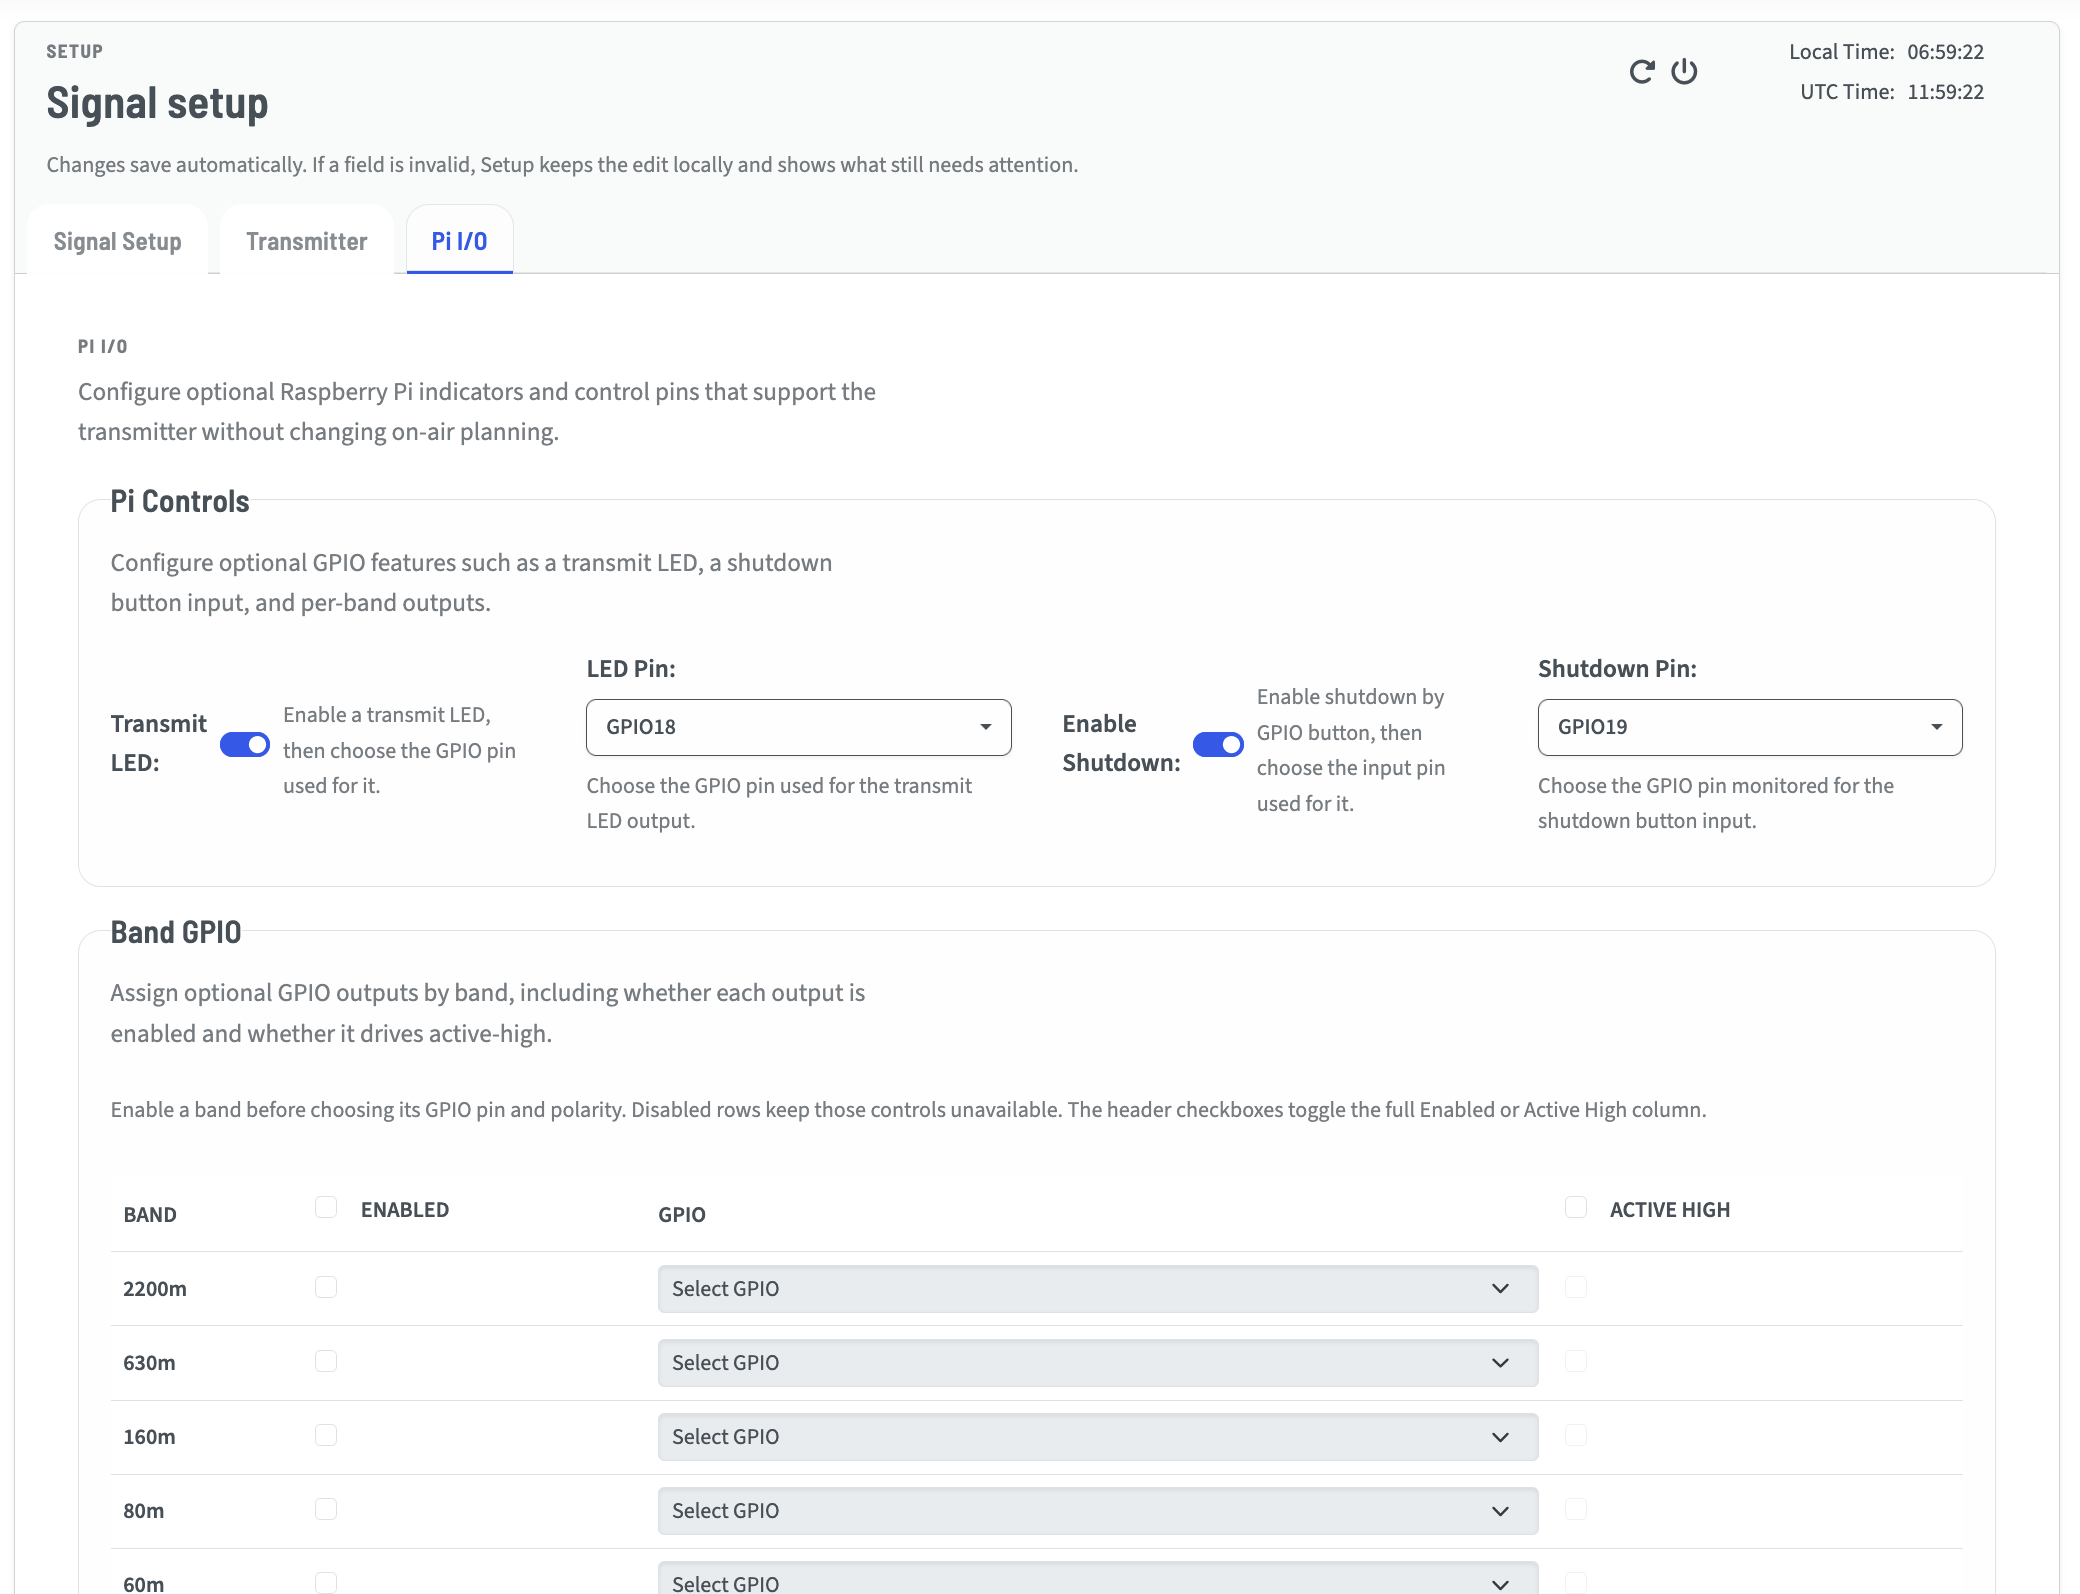
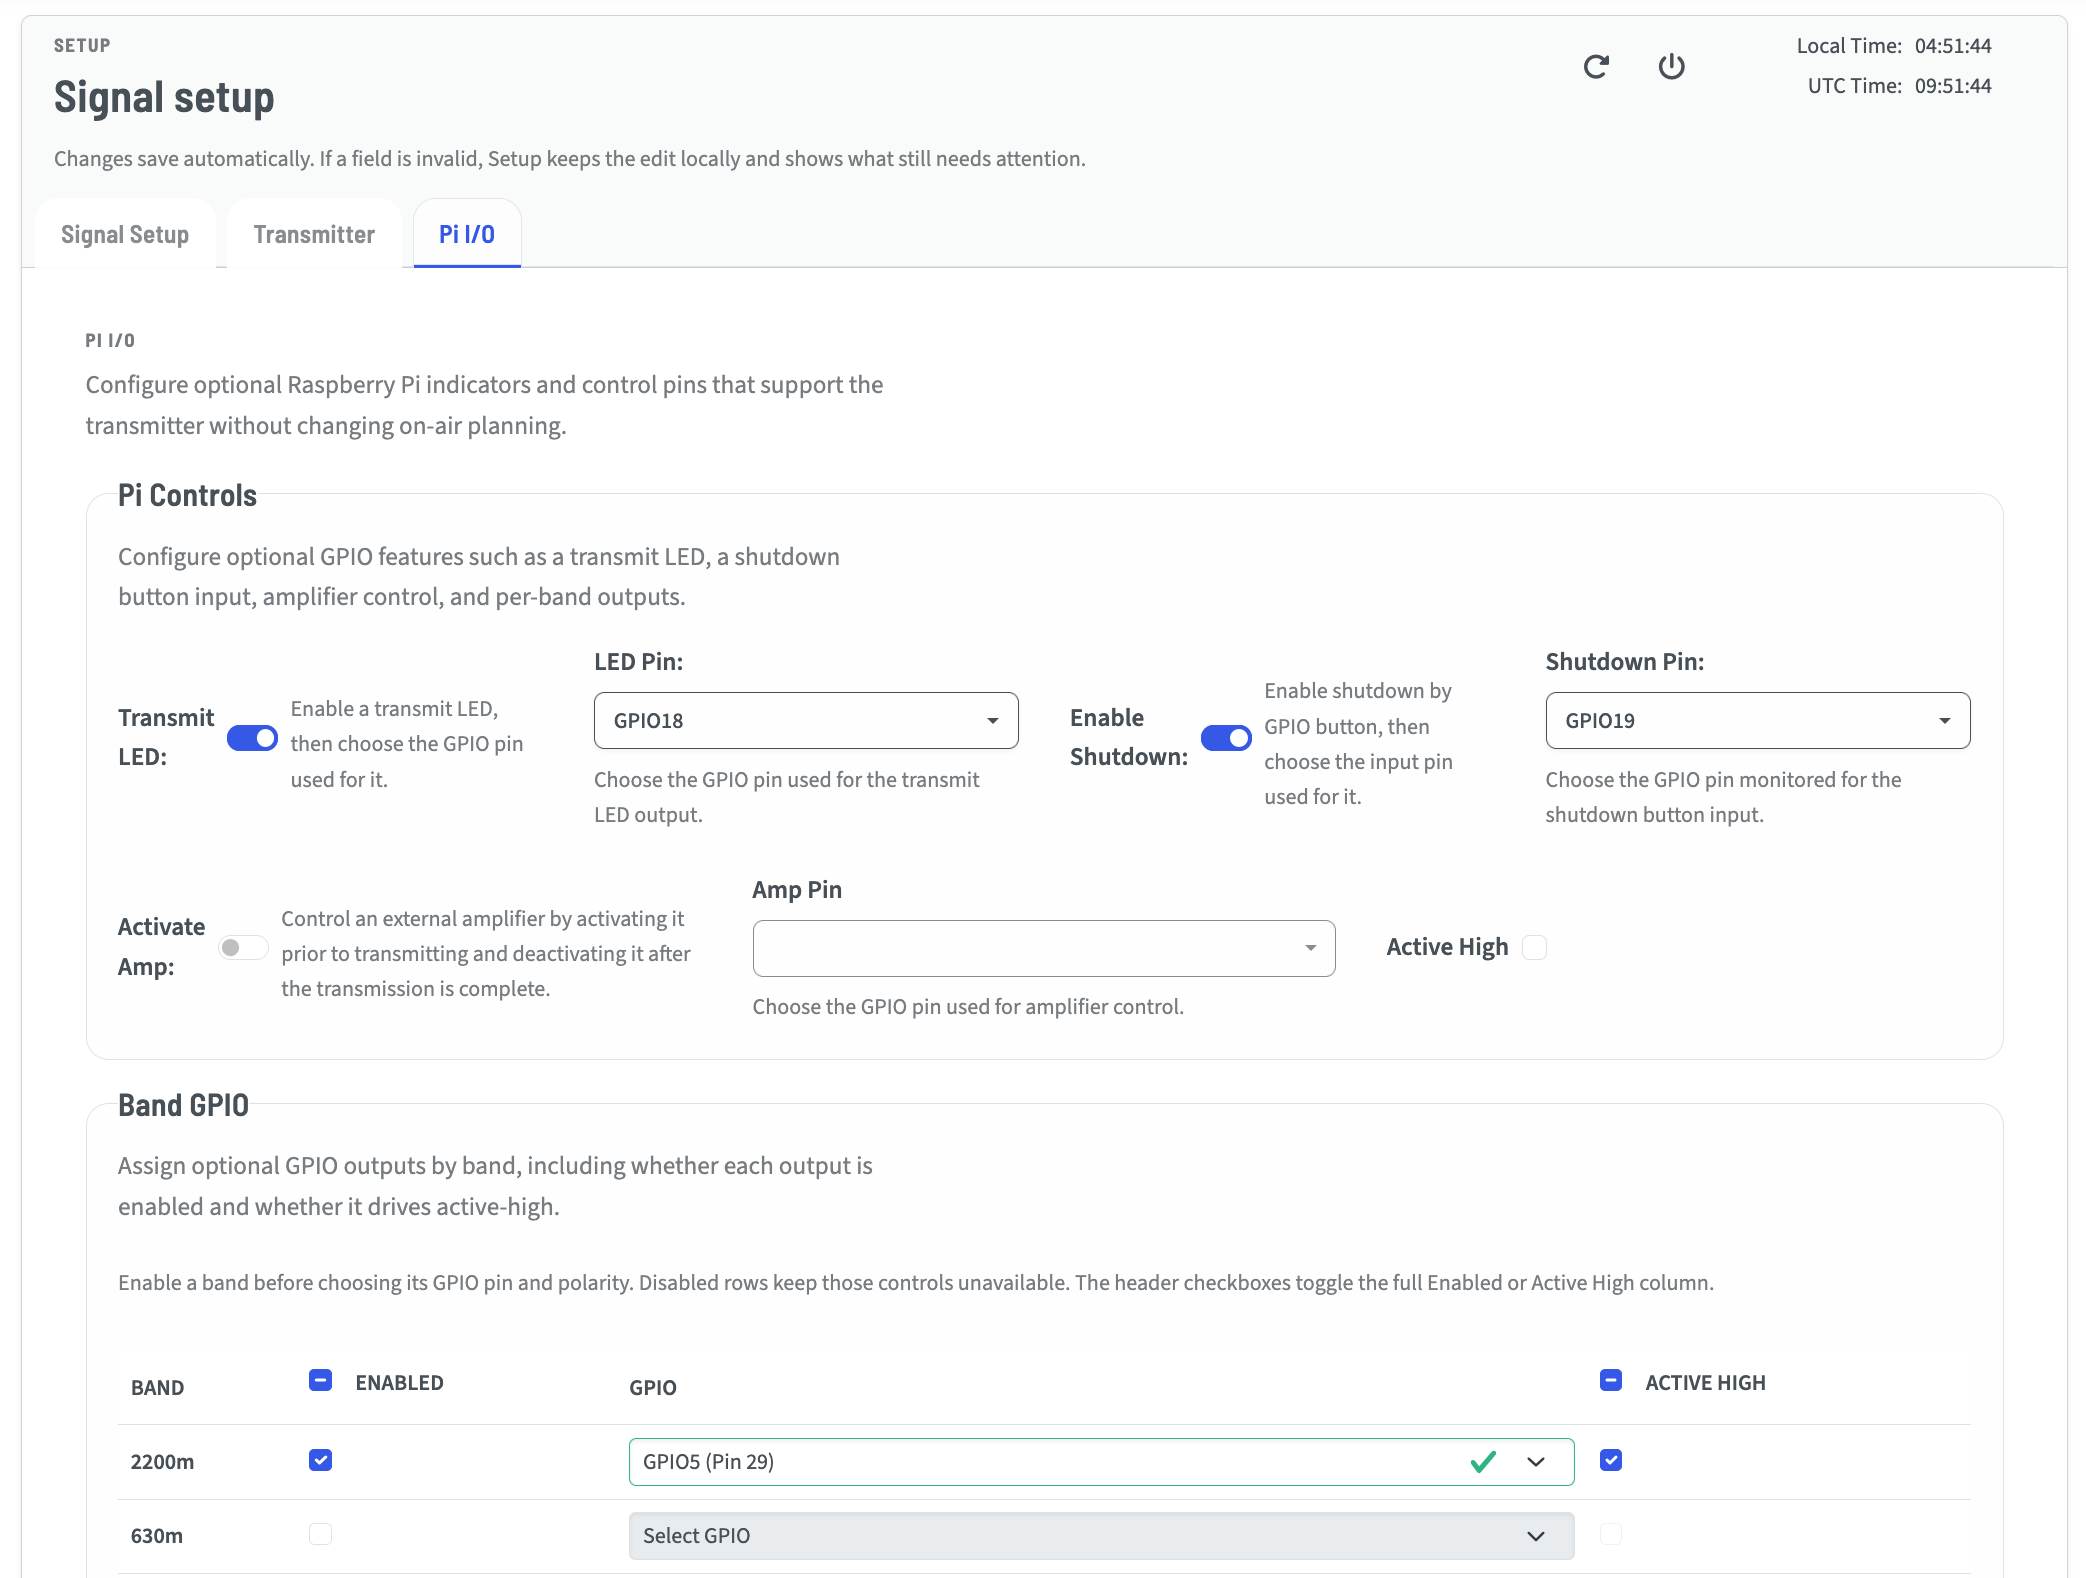
Update with Amp control

diff --git a/docs/_static/css/custom.css b/docs/_static/css/custom.css
@@ -244,6 +244,13 @@
     box-shadow: 0 1px 2px rgba(20, 27, 35, 0.04);
 }
 
+.rst-content div.admonition,
+.rst-content div.warning {
+    max-width: 68ch;
+    box-sizing: border-box;
+    overflow: hidden;
+}
+
 .rst-content .note,
 .rst-content .tip {
     border-color: rgba(103, 133, 139, 0.51);
@@ -270,6 +277,16 @@
     font-weight: var(--wsprrypi-docs-weight-bold);
     letter-spacing: var(--wsprrypi-docs-tracking-kicker);
     text-transform: uppercase;
+}
+
+.rst-content div.admonition > .admonition-title,
+.rst-content div.warning > .admonition-title {
+    display: block;
+    width: auto;
+    max-width: none;
+    box-sizing: border-box;
+    border-top-left-radius: inherit;
+    border-top-right-radius: inherit;
 }
 
 .rst-content .admonition p:last-child,

diff --git a/docs/User_Interface/Setup/Pi_IO/index.md b/docs/User_Interface/Setup/Pi_IO/index.md
@@ -6,13 +6,13 @@ The Pi I/O page contains settings for Raspberry Pi pin usage, including status i
 
 ## Transmit LED & LED Pin
 
-Enabling the Transmit LED will allow you to monitor the transmission state without the Web UI.  
+Enabling the Transmit LED lets you monitor the transmission state without the Web UI.
 
 ![Transmit LED](TX_LED.png)
 
 You may use the dropdown to configure it to a pin other than the TAPR default, which is GPIO18.
 
-Note that this is an Active High control.  You must use and LED and a properly-sized resistor in series to ground in order for it to operate.
+This is an Active High control ay 3V3 intended for use with an LED and a properly sized resistor.
 
 ## Enable Shutdown & Shutdown Pin
 
@@ -20,7 +20,19 @@ Here you may enable a pin to be monitored for a shutdown event without requiring
 
 ![Shutdown Pin](Shutdown_Pin.png)
 
-This is an active low input, meaning the pin is held high with an internal pull-up resistor, and when grounded (pulled low) the Wsprry Pi daemon will initiate a shutdown.
+This is an active-low input, meaning the pin is held high with an internal pull-up resistor, and when grounded (pulled low) the Wsprry Pi daemon will initiate a shutdown.
+
+## Activate Amp
+
+If you use an amplifier with an activation circuit, you may dedicate a pin to activate that amp on transmission.
+
+![Activate Amp](Activate_Amp.png)
+
+You may select active high or low, depending on your need.
+
+:::{danger}
+Most amplifiers allocate a pin to be grounded to its own chassis as an activation switch. Do not connect this directly to your Pi, it will overload your GPIO and may cause physical damage. A relay, SSR or MOSFET will be needed in most cases to switch the amp from the GPIO.
+:::
 
 ## Band GPIO
 
@@ -28,6 +40,6 @@ This section allows you to set pins to drive relays per band, to use a device su
 
 ![Band GPIO](Band_GPIO.png)
 
-Whether you use a band selection such as `20m` in WSPR, or a specific frequency, the system will determine which band that frequency represents.  To energize a relay for that band, check the "Enabled" box for that band, select the GPIO pin you would like to use, and whether you want it to be "Active High" (checked) or "Active Low" (unchecked).
+Whether you use a band selection such as `20m` in WSPR, or a specific frequency, the system will determine which band that frequency represents. To energize a relay for that band, check the "Enabled" box for that band, select the GPIO pin you would like to use, and whether you want it to be "Active High" (checked) or "Active Low" (unchecked).
 
-No error checking is performed intentionally.  Only pins known to be useable are included in the drop-down, but you can select the same pin for two bands.
+No error checking is performed intentionally. Only pins known to be usable are included in the drop-down, but you can select the same pin for multiple bands.
